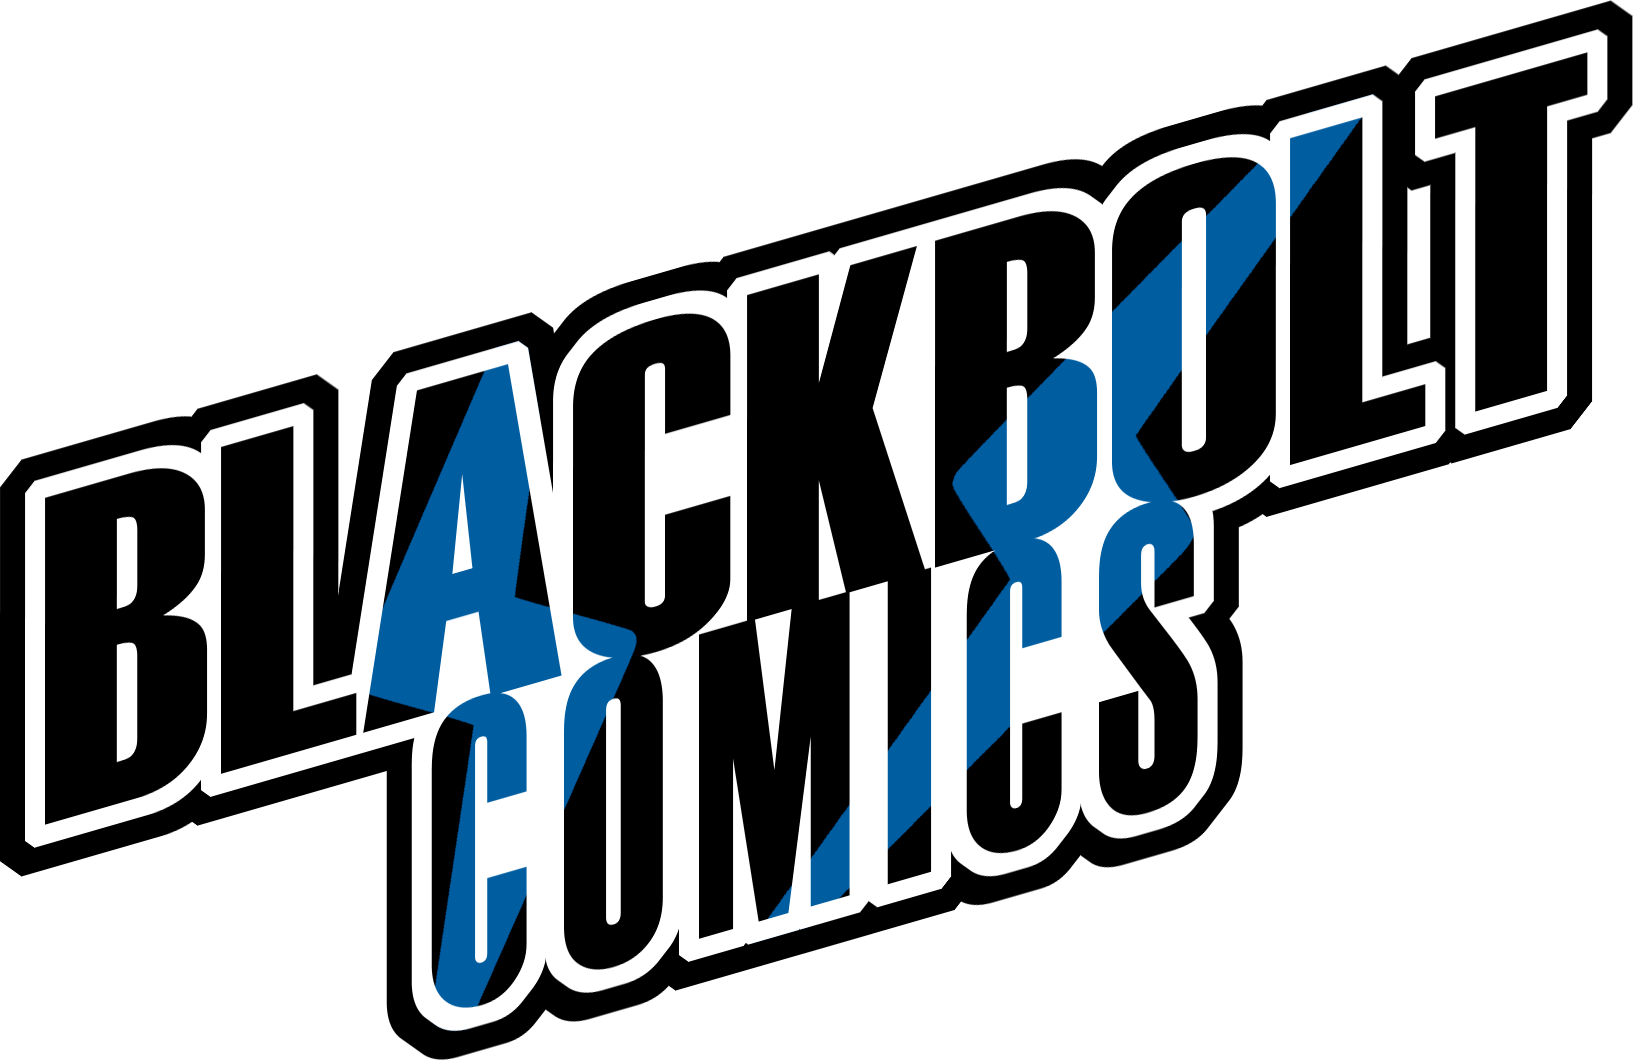
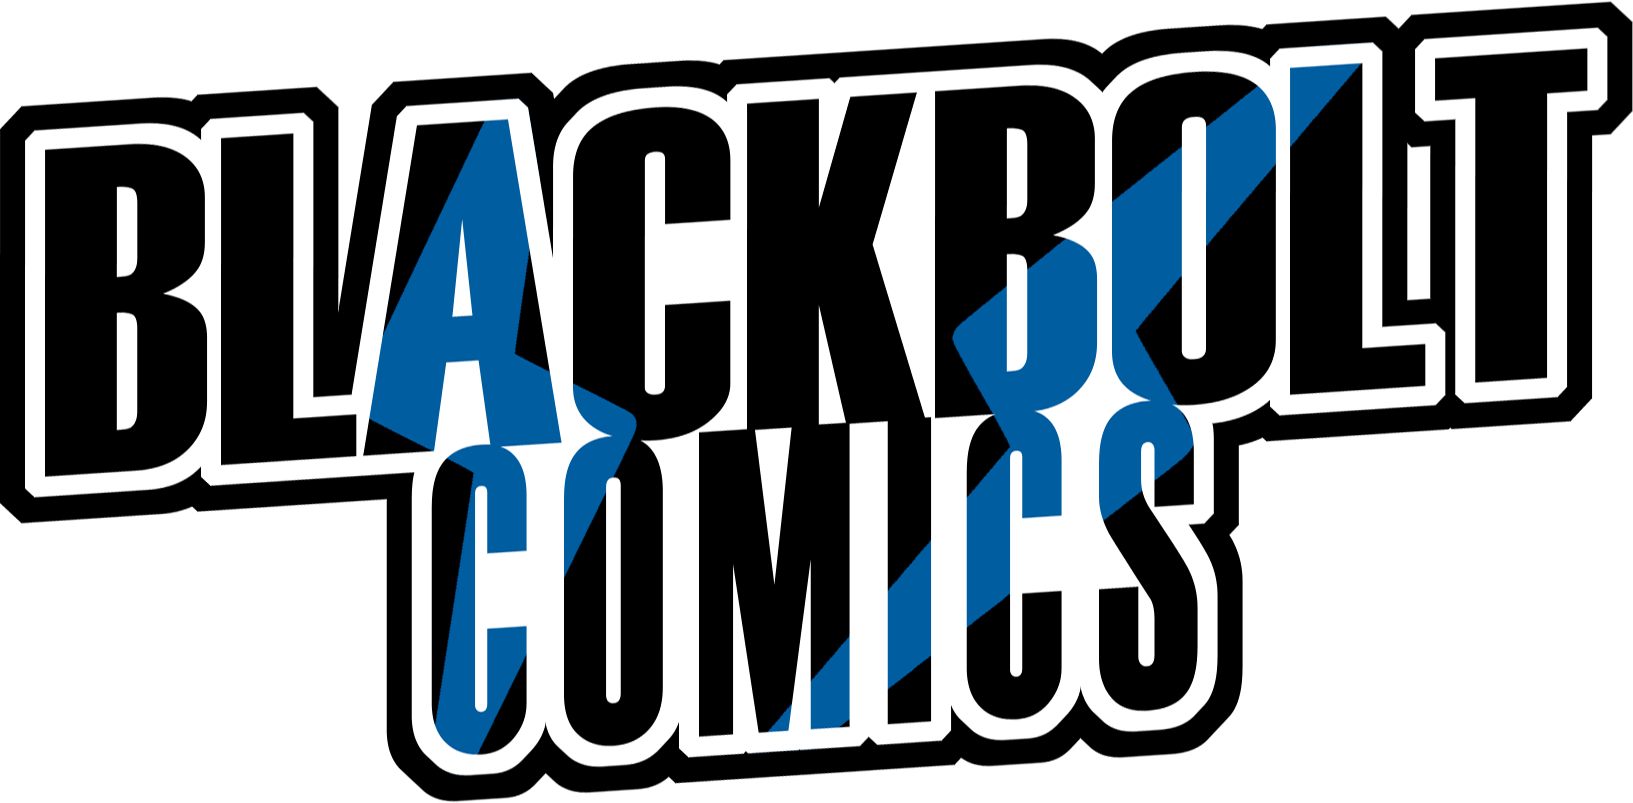
Style: Footer

diff --git a/static/css/base.css b/static/css/base.css
@@ -15,6 +15,7 @@ body{
     background-size: cover;
     height: 100vh;
     opacity: .3;
+    display: block;
 }
 
 /* Header - Navigation / Search */
@@ -36,8 +37,8 @@ body{
 
 .logo{
     position: inherit;
-    height: 90px;
-    padding: 5px;
+    width: 150px;
+    margin: 15px 5px 5px 5px;
 }
 
 .nav-container{
@@ -237,9 +238,31 @@ body{
 /* Footer */
 
 footer{
-    height: 200px;
+    height: auto;
     background-color: rgb(4, 50, 109);
     color: white;
+    padding-bottom: 10px;
+    display: inline-block;
+    width: 100%;
+}
+
+.contact-info{
+    width: 100%;
+    padding: 10px;
+    color: rgb(150, 194, 255);
+}
+
+.contact-info img{
+    width: 80px;
+}
+
+.contact-info p{
+    font-size: 10px;
+}
+
+.contact-info p a{
+    text-decoration: none;
+    color: inherit;
 }
 
 /* Smart Device Layout */
@@ -272,6 +295,11 @@ footer{
 }
 
 @media screen and (min-width: 414px){
+
+    .logo{
+        width: 180px;
+        margin: 5px 5px 5px 5px;
+    }
 
     .prod-menu-col p{
         font-size: 16px;

diff --git a/templates/base.html b/templates/base.html
@@ -203,7 +203,41 @@
 
         <div class="bg-image"></div>
 
-        <footer>Footer</footer>
+        <footer>
+
+            <div class="contact-info">
+
+                 <h3>Contact Us</h3>
+
+                <br>
+
+                <p>
+                    <i class="far fa-address-book"></i> : 208 Second Avenue
+
+                    <br>
+
+                    London
+
+                    <br>
+
+                    MD2Q 8LW
+
+                    <br>
+                    <br>
+
+                    <strong>
+                        <i class="fas fa-mobile-alt"></i> : <a href="tel:3068326161">306 832 6161</a>
+
+                        <br>
+                        <br>
+                        
+                        <i class="far fa-paper-plane"></i> : <a href="mailto:info@blackboltcomics.com"> info@blackboltcomics.com</a>
+                    </strong>
+                </p>
+                
+            </div>
+
+        </footer>
 
         {% if messages %}
             <div></div>
